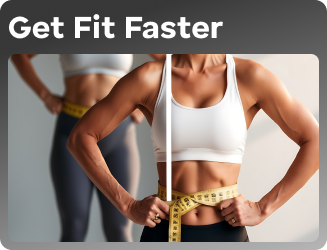
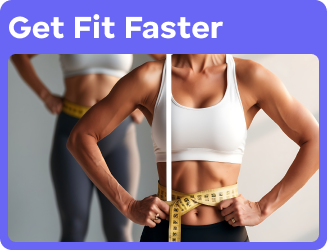
Change subscription header image

Changed region(s): [[0.0, 0.0, 1.0, 1.0]]

diff --git a/src/components/SubscriptionInfo/SubscriptionInfo.css b/src/components/SubscriptionInfo/SubscriptionInfo.css
@@ -16,10 +16,14 @@
   margin-bottom: 16px;
 }
 
+.SubscriptionInfo-header,
 .SubscriptionInfo-header img {
-  object-fit: contain;
   min-height: 278px;
   max-height: 300px;
+}
+
+.SubscriptionInfo-header img {
+  object-fit: contain;
   width: 100%;
 }
 
